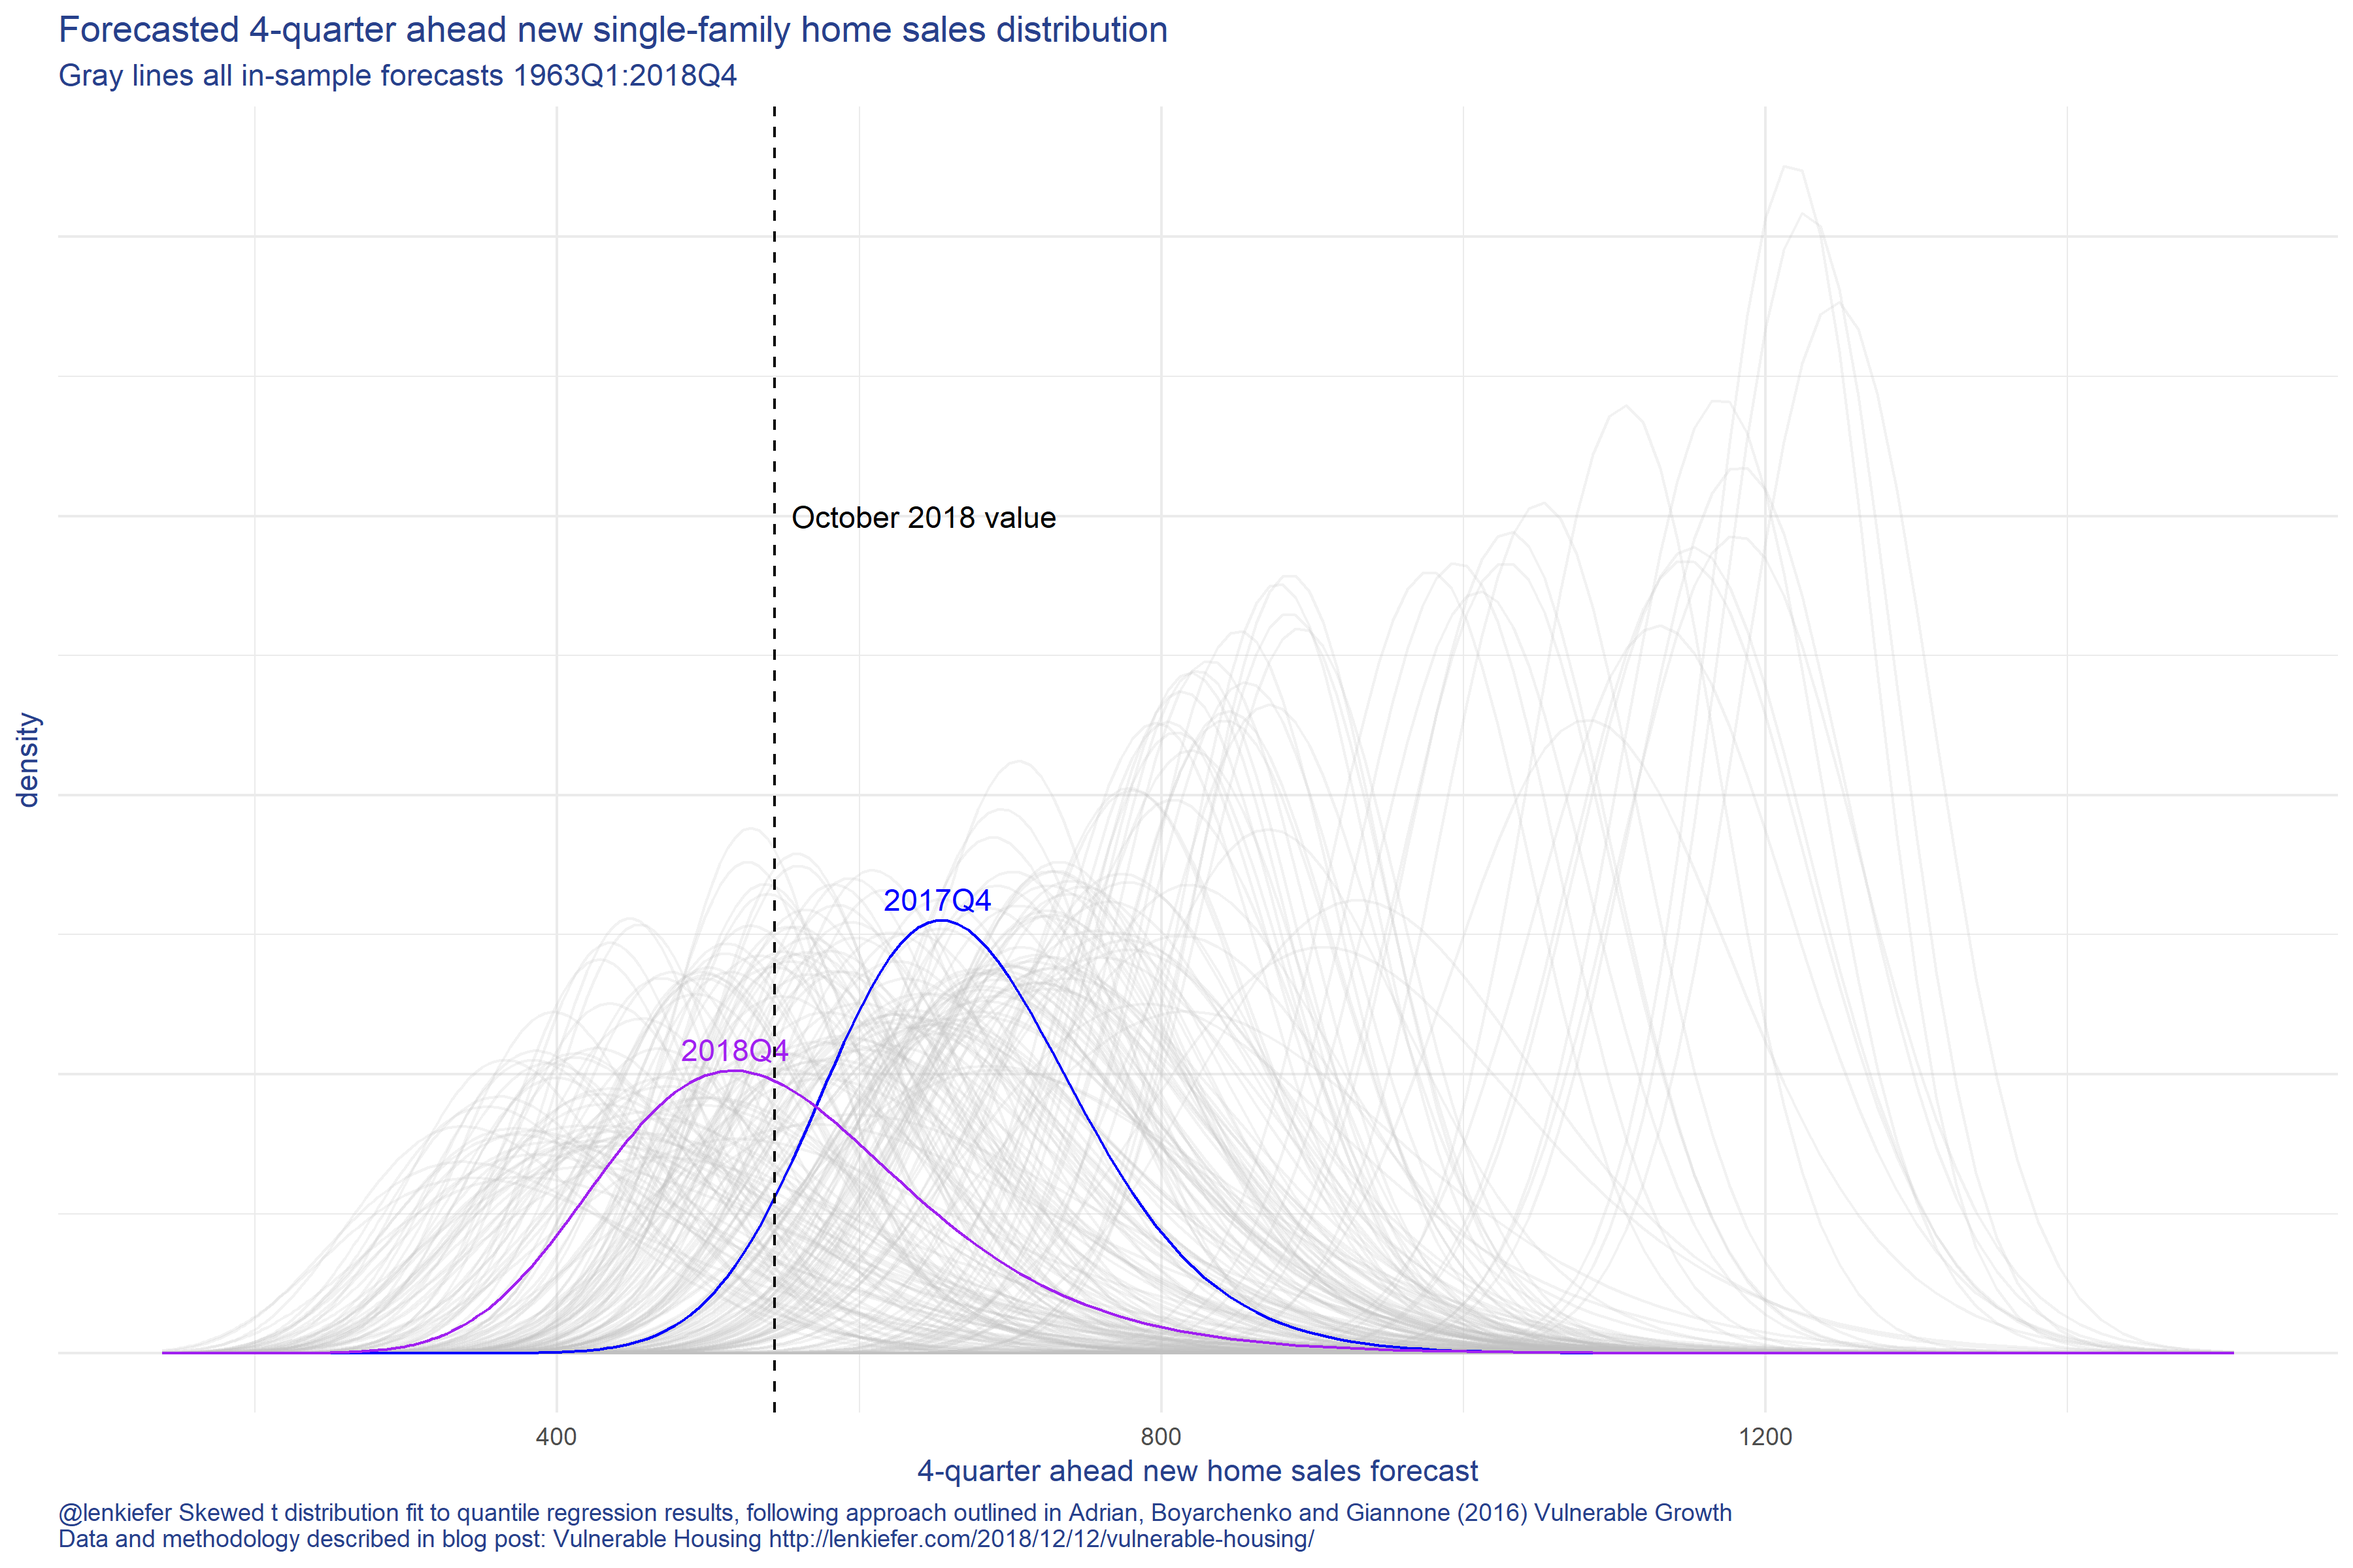
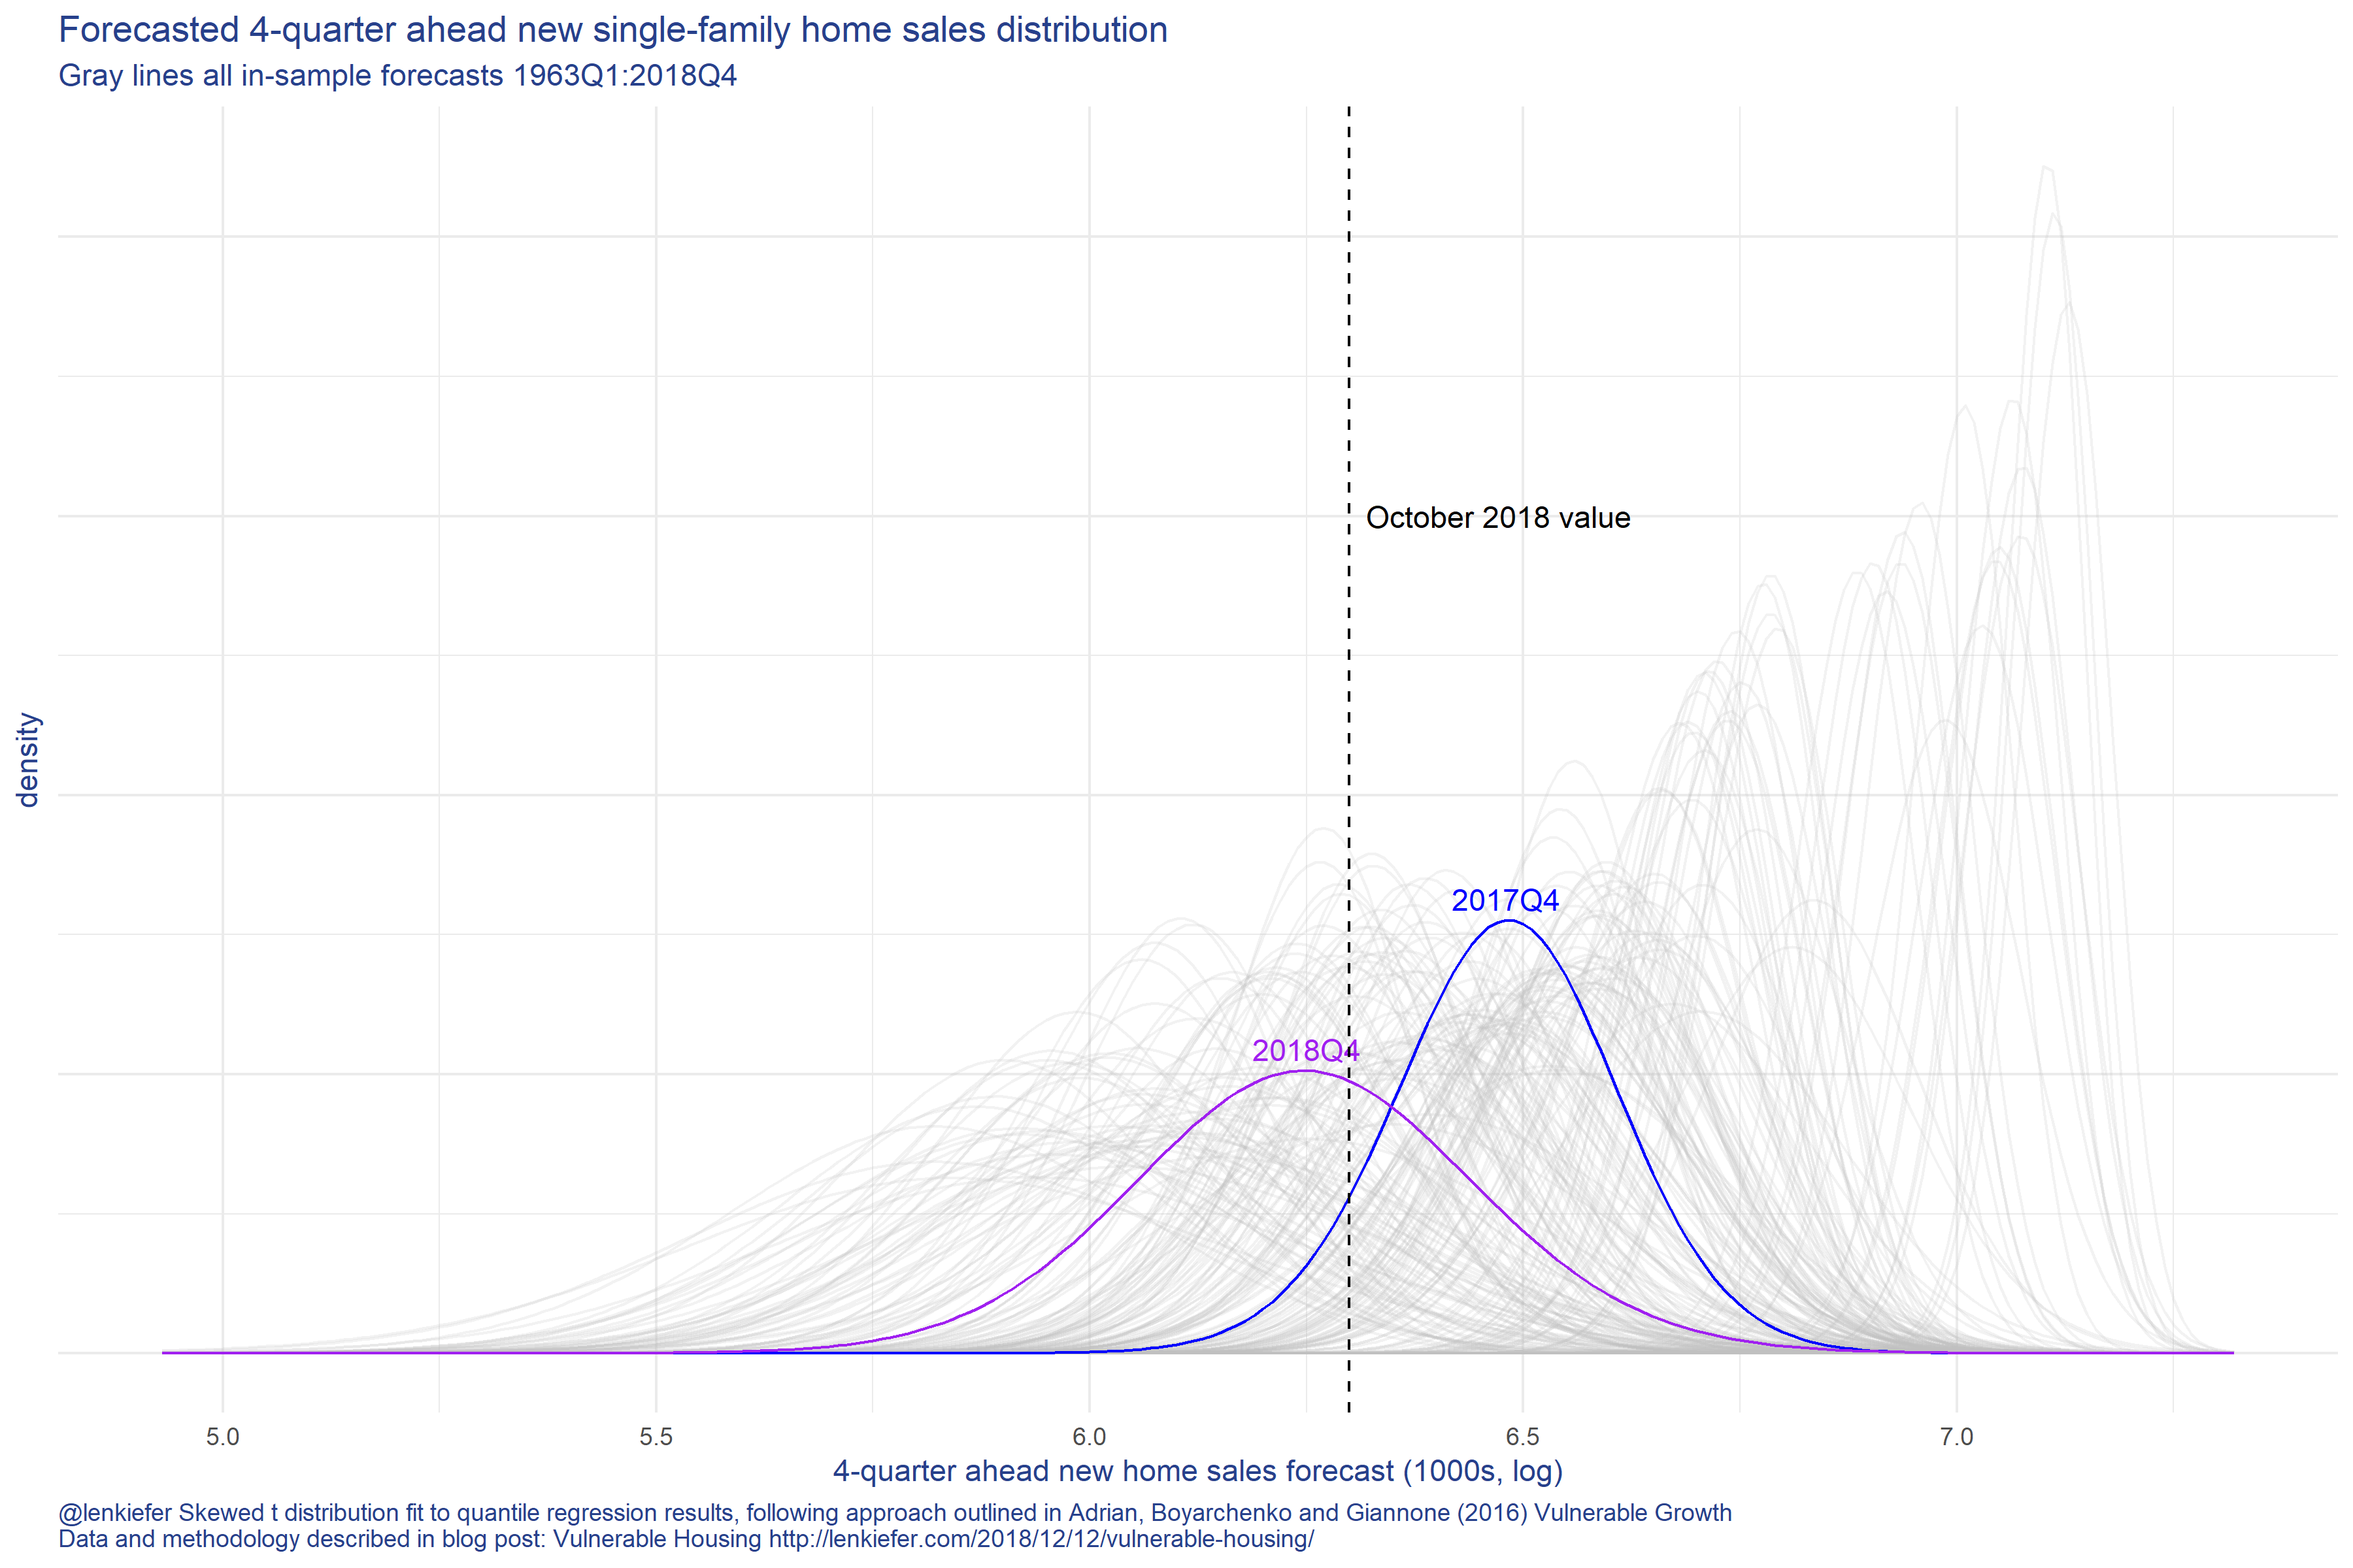
vulnerable post update

diff --git a/2018/12/12/vulnerable-housing/index.html b/2018/12/12/vulnerable-housing/index.html
@@ -767,30 +767,30 @@ df4p &lt;- filter(df4, par!=&quot;error&quot;) %&gt;% mutate(data=map(par,myp))
 
 g.dens&lt;-
   ggplot(data=df4p %&gt;%
-         select(date,data) %&gt;% unnest(data),
-       aes(x=exp(x),y=d,group=date))+
+           select(date,data) %&gt;% unnest(data),
+         aes(x=x,y=d,group=date))+
   geom_line(alpha=0.2,color=&quot;gray&quot;)+
   theme_minimal()+
   theme(text = element_text(color = &quot;#27408b&quot;))+
   theme(plot.caption=element_text(hjust=0),
         axis.text.y=element_blank())+
   geom_line(data= .%&gt;% filter( date==max(date) %m+% years(-1)), color=&quot;blue&quot;)+
-   geom_text(data= .%&gt;% filter( date==max(date)%m+% years(-1)) %&gt;% 
-               filter(d==max(d)), color=&quot;blue&quot;,
+  geom_text(data= .%&gt;% filter( date==max(date)%m+% years(-1)) %&gt;% 
+              filter(d==max(d)), color=&quot;blue&quot;,
             label=&quot;2017Q4&quot;,nudge_y=0.15)+
   
   geom_line(data= .%&gt;% filter( date==max(date)), color=&quot;purple&quot;)+
   geom_text(data= .%&gt;% filter( date==max(date)) %&gt;% filter(d==max(d)), color=&quot;purple&quot;,
             label=&quot;2018Q4&quot;,nudge_y=0.15)+
-  geom_vline(xintercept=tail(df$HSN1F,1),linetype=2)+
-  geom_text(data=tail(df,1), aes(x=HSN1F),y=6, label=&quot;  October 2018 value&quot;, hjust = 0)+
-
-  labs(x=&quot;4-quarter ahead new home sales forecast&quot;,y=&quot;density&quot;,
+  geom_vline(xintercept=tail(df$lsales,1),linetype=2)+
+  geom_text(data=tail(df,1), aes(x=lsales),y=6, label=&quot;  October 2018 value&quot;, hjust = 0)+
+  
+  labs(x=&quot;4-quarter ahead new home sales forecast (1000s, log)&quot;,y=&quot;density&quot;,
        title=&quot;Forecasted 4-quarter ahead new single-family home sales distribution&quot;,
        subtitle=&quot;Gray lines all in-sample forecasts 1963Q1:2018Q4&quot;,
-       caption=&quot;@lenkiefer Skewed t distribution fit to quantile regression results, following approach outlined in Adrian, Boyarchenko and Giannone (2016) Vulnerable Growth\nData and methodology described in blog post: Vulnerable Housing http://lenkiefer.com/2018/12/12/vulnerable-housing/&quot;)</code></pre>
+       caption=&quot;@lenkiefer Skewed t distribution fit to quantile regression results,\nfollowing approach outlined in Adrian, Boyarchenko and Giannone (2016) Vulnerable Growth\nData and methodology described in blog post: Vulnerable Housing http://lenkiefer.com/2018/12/12/vulnerable-housing/&quot;)</code></pre>
 <p></details></p>
-<p><img src="/post/2018-12-12-vulnerable-housing_files/figure-html/2018-12-12-call-dens-plot-1.png" width="672" /></p>
+<p><img src="/post/2018-12-12-vulnerable-housing_files/figure-html/2018-12-12-call-dens-plot-1.png" width="768" /></p>
 <p>The plot above shows that the forecast distribution for new home sales has shifted negatively since 2017Q4. Based on this (relatively) simply model, home sales are forecasted to decline into 2018. Note, a more sophiticated approach might arrive at an alternative forecast. This post is just applying the Vulnerable Growth approach to housing.</p>
 <p>But based on this model we can say more about how the distributions are shifted. We can compute the <a href="https://en.wikipedia.org/wiki/Expected_shortfall">expected shortfall</a> of new home sales. In our case the expected shortfall for home sales would be the average number of new single-family home sales in the worst 5% of outcomes.</p>
 <p>By analyzing trends in the expected shortfall we can quantify how downside risks to the forecast may have evolved.</p>
@@ -816,17 +816,16 @@ df4_es &lt;-
   unnest(es) %&gt;%
   select(date,es)</code></pre>
 <pre class="r"><code>g.sf &lt;-
-  ggplot(data=df4_es, aes(x=date,y=exp(-es)))+
+  ggplot(data=df4_es, aes(x=date,y=-es))+
   geom_rect(data=recessions.df,inherit.aes=FALSE, aes(xmin=Peak, xmax=Trough, ymin=-Inf, ymax=+Inf), fill=&#39;gray&#39;, alpha=0.4)+
   geom_line(color=&quot;#27408b&quot;)+
   theme_minimal()+
   theme(text = element_text(color = &quot;#27408b&quot;))+
   scale_y_continuous(sec.axis=dup_axis())+
   scale_x_date(date_breaks=&quot;5 years&quot;,date_labels=&quot;%Y&quot;)+
-  theme(plot.caption=element_text(hjust=0),
-        axis.text.y=element_blank())+    
+  theme(plot.caption=element_text(hjust=0))+    
   labs(x=&quot;date (quarterly)&quot;,
-       y=&quot;&quot;,
+       y=&quot;log new home sales&quot;,
        title=&quot;4-quarter ahead expected shortfall in new home sales&quot;,
        subtitle=&quot;expected number of sales in worst 5% of outcomes&quot;,
        caption=&quot;@lenkiefer Methodology described in post Vulnerable Housing http://lenkiefer.com/2018/12/12/vulnerable-housing/ \nbased on Adrian, Boyarchenko and Giannone (2016) Vulnerable Growth&quot;)</code></pre>
